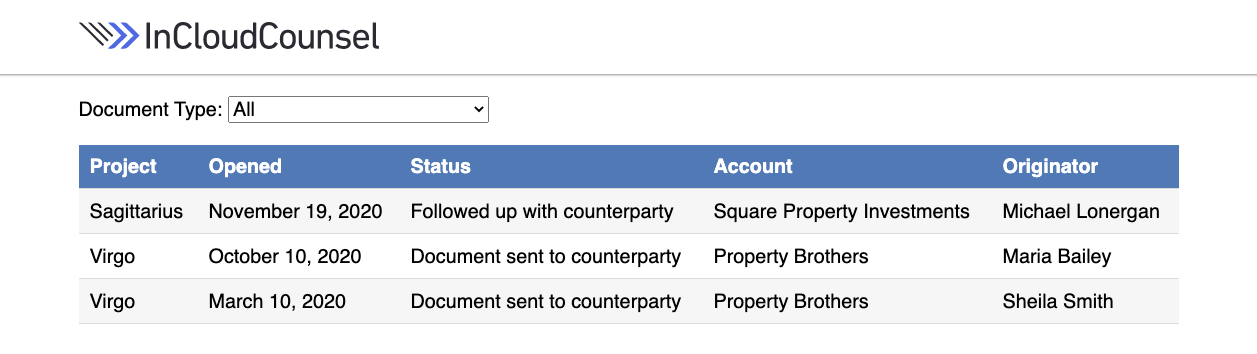
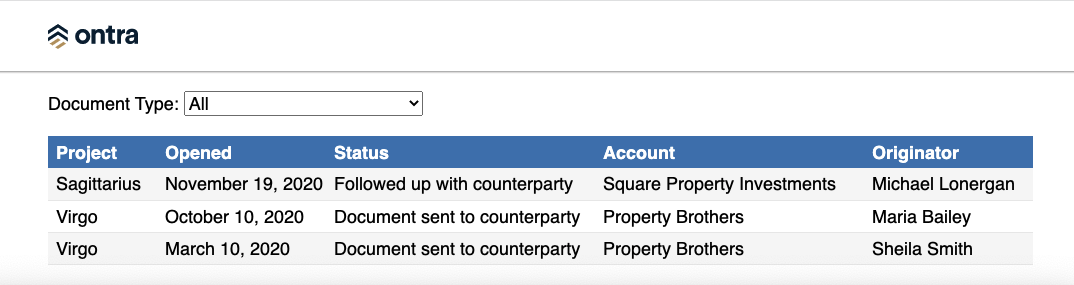
Rename InCloudCounsel -> Ontra

diff --git a/tests/index.html b/tests/index.html
@@ -3,7 +3,7 @@
   <head>
     <meta charset="utf-8">
     <meta http-equiv="X-UA-Compatible" content="IE=edge">
-    <title>IccFrontendAssessment Tests</title>
+    <title>Ontra Frontend Assessment Tests</title>
     <meta name="description" content="">
     <meta name="viewport" content="width=device-width, initial-scale=1">
 
@@ -11,7 +11,7 @@
     {{content-for "test-head"}}
 
     <link rel="stylesheet" href="{{rootURL}}assets/vendor.css">
-    <link rel="stylesheet" href="{{rootURL}}assets/icc-frontend-assessment.css">
+    <link rel="stylesheet" href="{{rootURL}}assets/ontra-frontend-assessment.css">
     <link rel="stylesheet" href="{{rootURL}}assets/test-support.css">
 
     {{content-for "head-footer"}}
@@ -24,7 +24,7 @@
     <script src="/testem.js" integrity=""></script>
     <script src="{{rootURL}}assets/vendor.js"></script>
     <script src="{{rootURL}}assets/test-support.js"></script>
-    <script src="{{rootURL}}assets/icc-frontend-assessment.js"></script>
+    <script src="{{rootURL}}assets/ontra-frontend-assessment.js"></script>
     <script src="{{rootURL}}assets/tests.js"></script>
 
     {{content-for "body-footer"}}

diff --git a/app/index.html b/app/index.html
@@ -3,14 +3,14 @@
   <head>
     <meta charset="utf-8">
     <meta http-equiv="X-UA-Compatible" content="IE=edge">
-    <title>IccFrontendAssessment</title>
+    <title>Ontra Frontend Assessment</title>
     <meta name="description" content="">
     <meta name="viewport" content="width=device-width, initial-scale=1">
 
     {{content-for "head"}}
 
     <link integrity="" rel="stylesheet" href="{{rootURL}}assets/vendor.css">
-    <link integrity="" rel="stylesheet" href="{{rootURL}}assets/icc-frontend-assessment.css">
+    <link integrity="" rel="stylesheet" href="{{rootURL}}assets/ontra-frontend-assessment.css">
 
     {{content-for "head-footer"}}
   </head>
@@ -18,7 +18,7 @@
     {{content-for "body"}}
 
     <script src="{{rootURL}}assets/vendor.js"></script>
-    <script src="{{rootURL}}assets/icc-frontend-assessment.js"></script>
+    <script src="{{rootURL}}assets/ontra-frontend-assessment.js"></script>
 
     {{content-for "body-footer"}}
   </body>

diff --git a/config/environment.js b/config/environment.js
@@ -2,7 +2,7 @@
 
 module.exports = function(environment) {
   let ENV = {
-    modulePrefix: 'icc-frontend-assessment',
+    modulePrefix: 'ontra-frontend-assessment',
     environment,
     rootURL: '/',
     locationType: 'auto',

diff --git a/README.md b/README.md
@@ -1,9 +1,9 @@
-# icc-frontend-assessment
+# ontra-frontend-assessment
 
 ## The challenge
 We'd like you to create an Ember component for displaying document data in tabular form, and then integrate that component into an existing Ember app.
 
-![alt text](https://github.com/incloudcounsel/icc-frontend-assessment/raw/main/mockup.png)
+![alt text](https://github.com/ontra_ai/ontra-frontend-assessment/raw/main/mockup.png)
 
 ## Desired behavior
 * You're only responsible for implementing the table. All other elements have been provided for you.
@@ -37,8 +37,8 @@ You will need the following installed on your computer:
 
 ## Installation
 
-* `git clone https://github.com/incloudcounsel/icc-frontend-assessment.git`
-* `cd icc-frontend-assessment`
+* `git clone https://github.com/ontra_ai/ontra-frontend-assessment.git`
+* `cd ontra-frontend-assessment`
 * `npm install`
 * `npm start`
 * Visit the app at [http://localhost:4200](http://localhost:4200).
@@ -48,6 +48,6 @@ You will need the following installed on your computer:
 * After you clone, create a new branch and commit all your work there.
 * When you're done, use this command to generate a patch file:
 ```
-git format-patch main --stdout > icc-frontend-assessment.patch
+git format-patch main --stdout > ontra-frontend-assessment.patch
 ```
 * Then, submit the file to Greenhouse using the link you've been given.
